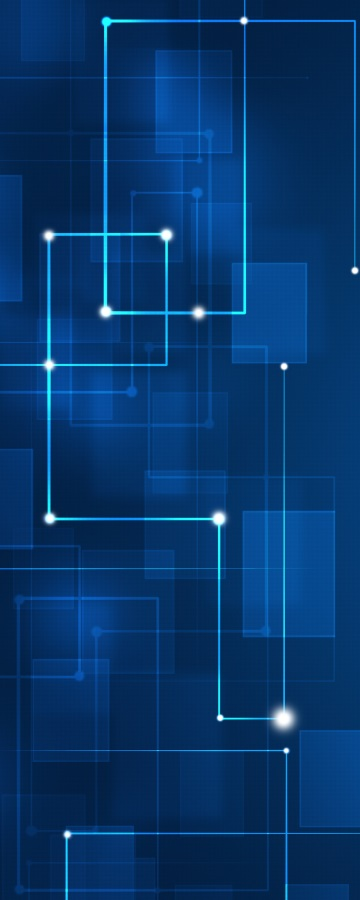
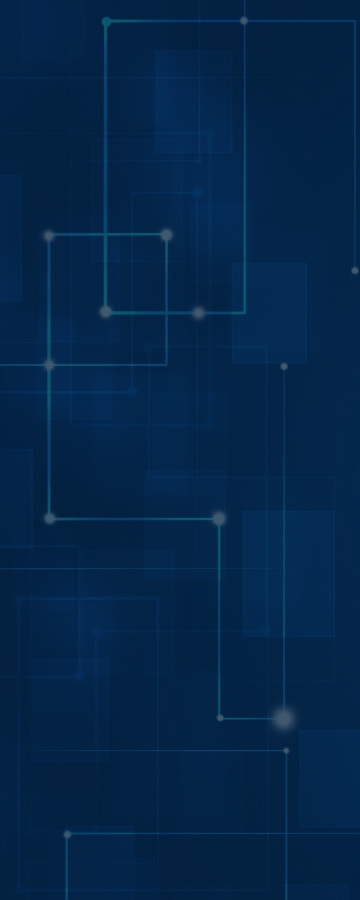
Made CSS Responsive to medium screens

diff --git a/style.css b/style.css
@@ -10,7 +10,7 @@ body {
   margin:0px;
   padding:0px;
   font-family:"Avant Garde", Avantgarde, "Century Gothic", CenturyGothic, "AppleGothic", sans-serif; 
-  background-color:#000044;
+  background-color:#03203e;
   background-image:url('background-small.jpg');
   background-attachment:fixed;
   color:white;
@@ -77,7 +77,8 @@ blockquote {
   margin-top:0px;
   margin-bottom:0px;
   font-weight:normal;
-  display:inline;
+  display:block;
+  white-space:nowrap;
 }
 
 .headerTitle {
@@ -165,9 +166,11 @@ blockquote {
   padding-right:10px;
   padding-top:10px;
   padding-bottom:1px;
-  margin:10px;
+  margin-bottom:10px;
+  margin-left:10px;
+  margin-right:10px;;
   margin-top:30px;
-  background-color:#0c376c;
+  border-top:2px solid white;
 }
 
 .sidebar a:link, .sidebar a:visited {
@@ -176,6 +179,7 @@ blockquote {
 
 .sidebar h2 {
   margin:0px;
+  color:#4087D0;
 }
 
 .sidebar ul {
@@ -203,19 +207,24 @@ blockquote {
 }
 
 /*Styles for wide screens */
-@media (min-width:1200px) {
+@media (min-width:1250px) {
   
   body {
     background-image:url('background-large.jpg')
   }
   
+  .headerTitle, .headerSubtitle {
+    display:inline-block;
+  }
+  
   .headerTitle {
     font-size:3em;
+    margin-right: 25px;
   }
   
   .headerSubtitle {
     font-size:2em;
-    margin-left: 25px;
+    
   }
   
   .content, .sidebar {
@@ -231,6 +240,8 @@ blockquote {
   .sidebar {
     width:300px;
     margin-left:50px;
+    border:0px;
+    background-color:#0c376c;
   }
   
   .articleImage  {
@@ -254,5 +265,71 @@ blockquote {
     margin-right:40px;
   }
   
+}
+
+/*Styles for medium screens */
+@media (min-width:800px) and (max-width:1249px) {
+  body {
+    background-image:url('background-large.jpg');
+    background-repeat:repeat-y;
+  }
+  
+  .headerTitle, .headerSubtitle {
+    display:inline-block;
+  }
+  
+  .headerTitle {
+    font-size:3em;
+    margin-right:25px;
+  }
+  
+  .headerSubtitle {
+    font-size:2em;
+    margin-left: 0px;
+  }
+  
+  .content, .sidebar {
+    display:inline-block;
+    vertical-align:top;
+  }
+  
+  .content {
+    width:62%;
+    margin-left:2%;
+    margin-right:2%;
+    padding-left:1%;
+    padding-right:1%;
+  }
+  
+  .sidebar {
+    width:24%;
+    margin-left:4%;
+    margin-right:1%;
+    padding-left:1%;
+    padding-right:1%;
+    background-color:#0c376c;
+    border:0px;
+  }
+  
+  .articleImage  {
+    width:300px !important;
+    float:left;
+    margin-right:30px;
+    margin-bottom:20px;
+  }
+  
+  .content img {
+    width:auto;
+    max-width:500px;
+  }
+  
+  .navbar ul {
+    margin-left:15px;
+  }
+  
+  .navbar li {
+    font-size:1.5em;
+    margin-right:40px;
+  }
 
 }
